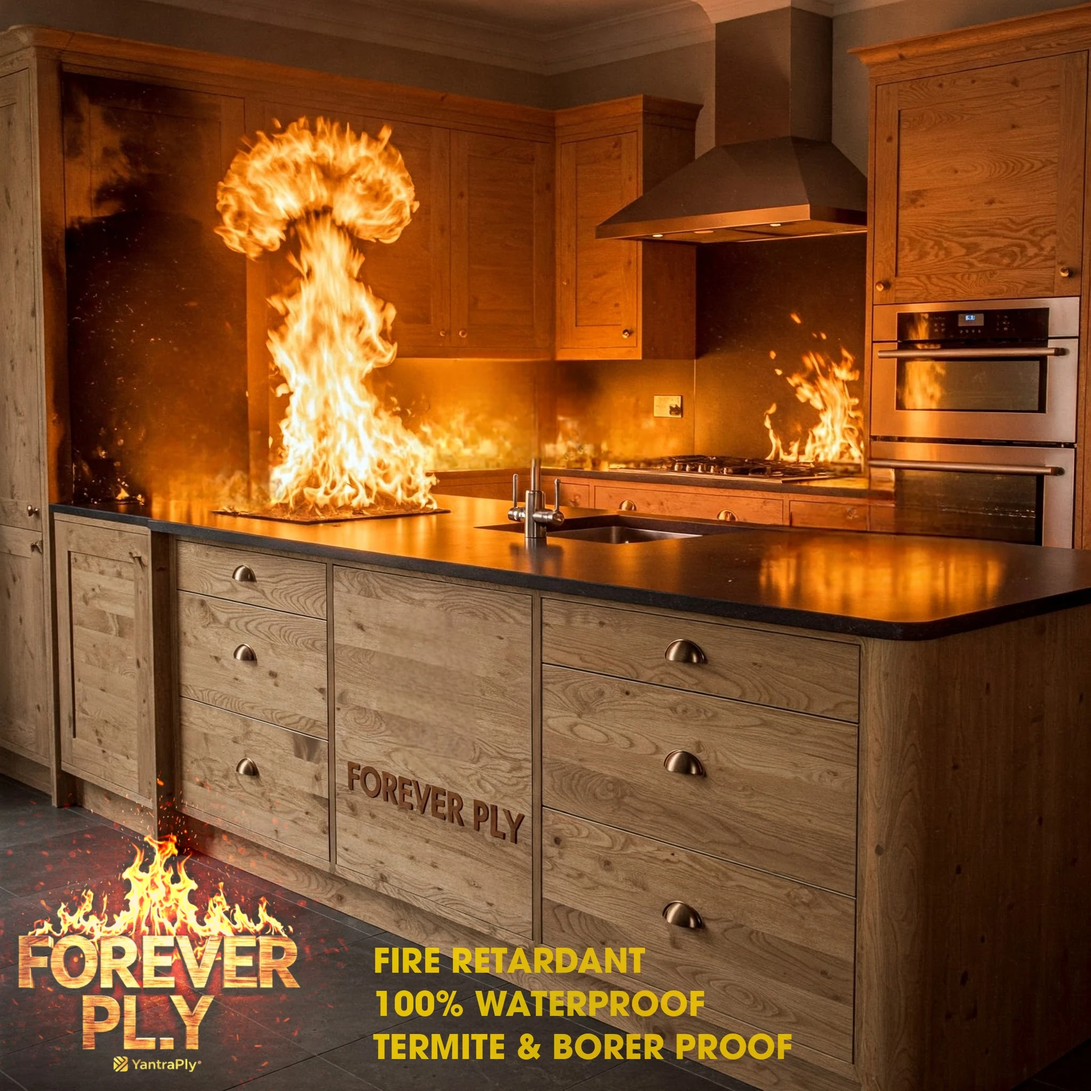
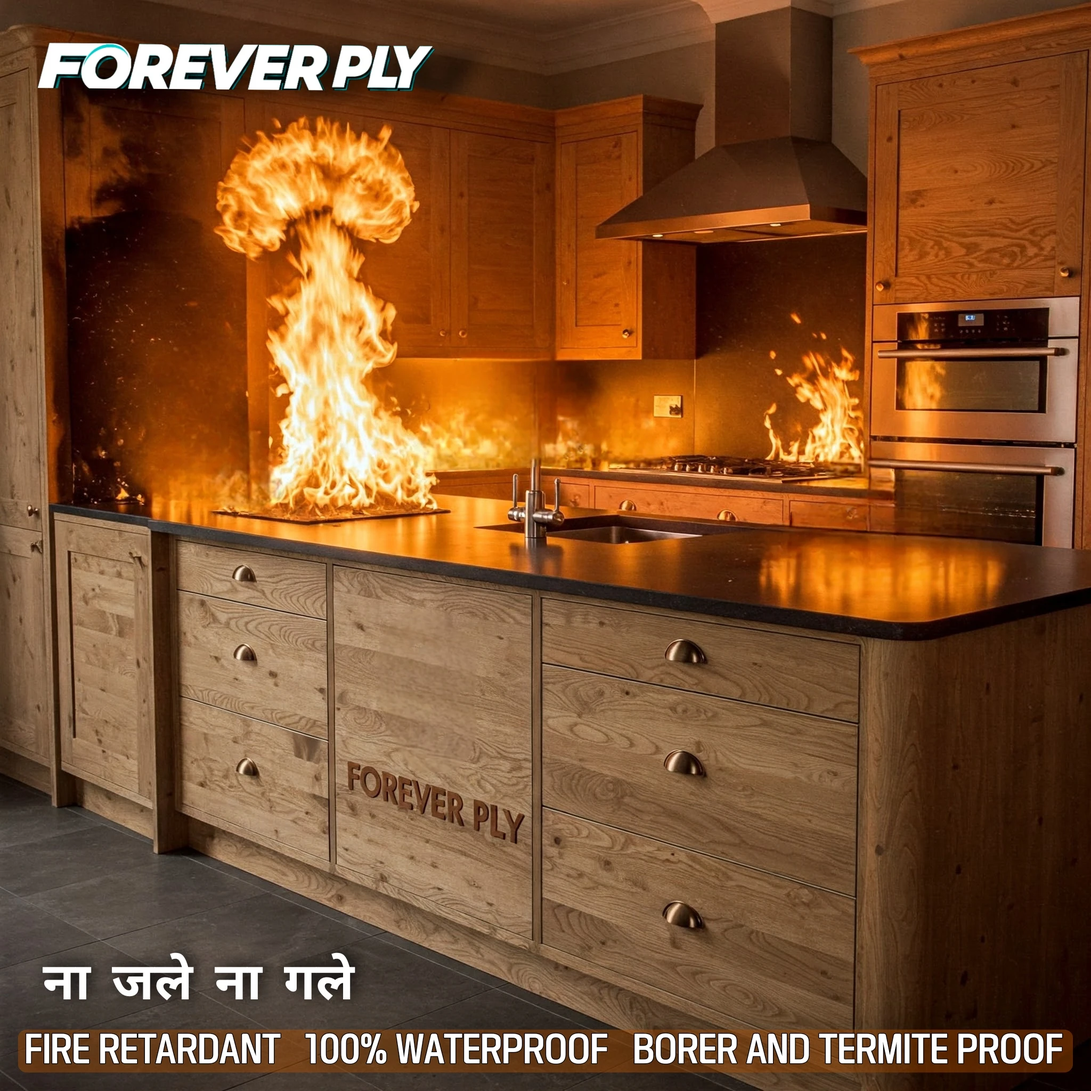
image change

Changed region(s): [[0.0, 0.7188, 1.0, 1.0], [0.0312, 0.0312, 0.4375, 0.0938]]

diff --git a/index.html b/index.html
@@ -282,20 +282,22 @@ height="0" width="0" style="display:none;visibility:hidden"></iframe></noscript>
             <div class="hero-slider">
          
               <div class="hero-slider0box">
-                <img id="referenceImage" src="images/home-banner-099.webp" alt="">
+                <img id="referenceImage" src="images/home-banner-01.webp" alt="">
             </div>
             
               <div class="hero-slider0box">
-                  <img id="referenceImage" src="images/home-banner-01.webp" alt="">
-              </div>
+                <img id="referenceImage" src="images/home-banner-099.png" alt="">
+            </div>
+            
+            
           
-              <div class="hero-slider0box"> 
+              <!-- <div class="hero-slider0box">  -->
                 <!-- <video id="sliderVideo" autoplay loop muted playsinline>
                     <source src="images/video.mp4" type="video/mp4">
                     Your browser does not support the video tag.
                 </video> -->
-                <img id="referenceImage" src="images/home-banner-041.png" alt="">
-            </div>
+                <!-- <img id="referenceImage" src="images/home-banner-041.png" alt=""> -->
+            <!-- </div> -->
             
               <div class="hero-slider0box">
                   <img src="images/home-banner-02.webp" alt="">
